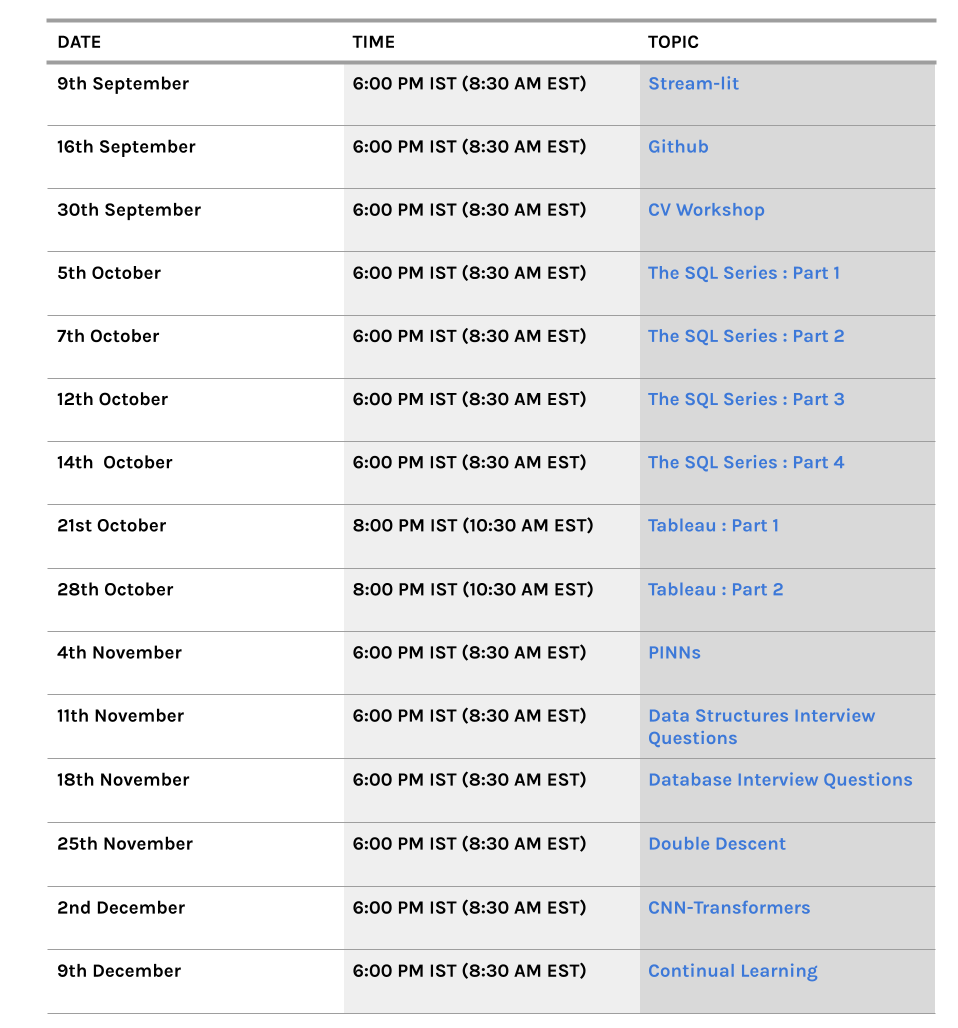
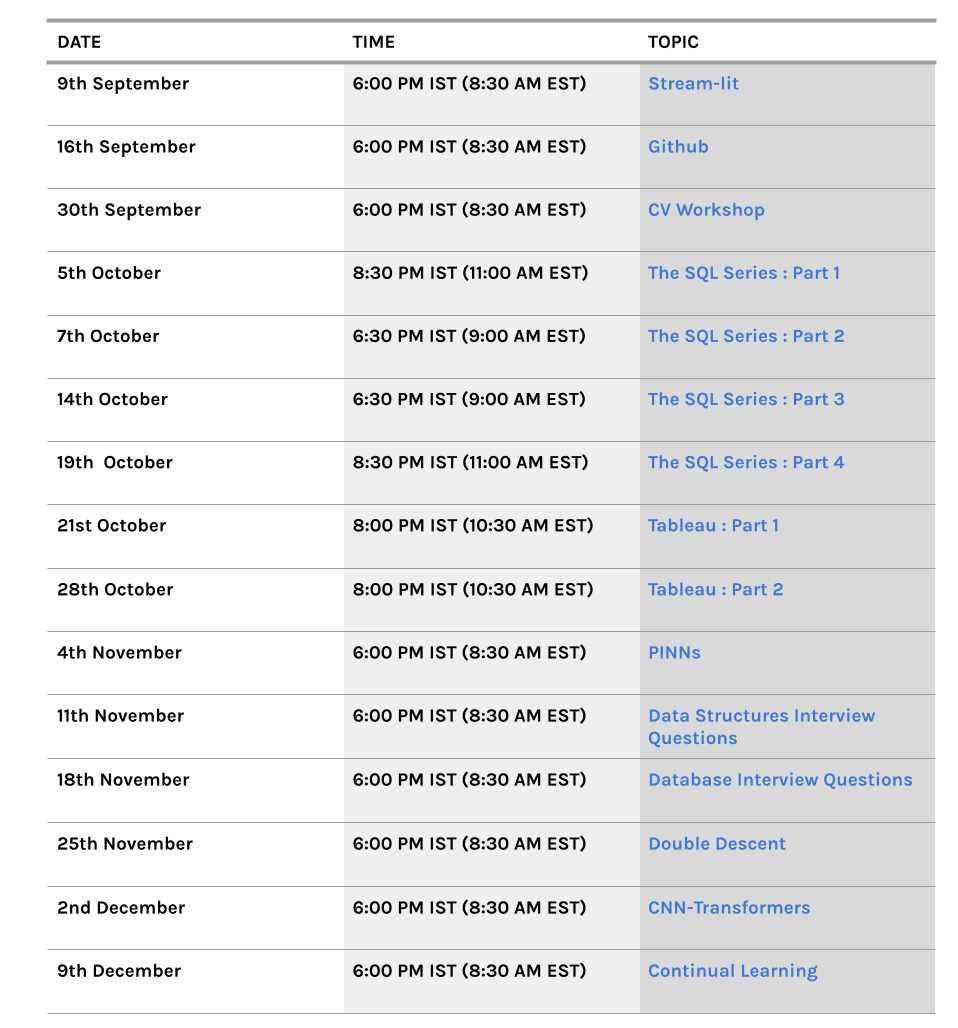
Uncourse updates linked new workshops to myuniv

diff --git a/_pages/uncourse.md b/_pages/uncourse.md
@@ -136,7 +136,7 @@ Here is the current schedule for all our workshops.
       </div>
       <div class="modal-body">
         <p>This workshop discusses Database related common Interview Coding Questions , building upon the previous session.</p>
-        <p>Registeration link below will be made active shortly!</p>
+        <p>Registration link below will be made active shortly!</p>
         <center><h6>Instructor: Dr. Rahul Dave</h6>
         <img src="/assets/images/people/RahulDave.jpeg" alt="Rahul" style="height:200px;margin-right:15px;"><br><br>
         <h6>Timings</h6>
@@ -223,8 +223,8 @@ Here is the current schedule for all our workshops.
         <center><h6>Instructor: Dr. Rahul Dave</h6>
         <img src="/assets/images/people/RahulDave.jpeg" alt="Rahul" style="height:200px;margin-right:15px"><br><br>
         <h6>Timings</h6>
-        <p>6:00 - 8:00 PM IST <br>
-        (8:30 - 10:30 AM EST)</p> <br>
+        <p>8:30 - 10:30 PM IST <br>
+        (11:00 AM - 01:00 PM EST)</p> <br>
         <button class="register-button" onclick="location.href='https://my.univ.ai/community/sql-series'">Register</button></center>
       </div>
     </div>
@@ -251,8 +251,8 @@ Here is the current schedule for all our workshops.
         <center><h6>Instructor: Dr. Rahul Dave</h6>
         <img src="/assets/images/people/RahulDave.jpeg" alt="Rahul" style="height:200px;margin-right:15px;"><br><br>
         <h6>Timings</h6>
-        <p>6:00 - 8:00 PM IST <br>
-        (8:30 - 10:30 AM EST)</p> <br>
+        <p>6:30 - 8:30 PM IST <br>
+        (9:00 - 11:00 AM EST)</p> <br>
         <button class="register-button" onclick="location.href='https://my.univ.ai/community/sql-series'">Register</button></center>
       </div>
     </div>
@@ -279,8 +279,8 @@ Here is the current schedule for all our workshops.
         <center><h6>Instructor: Dr. Rahul Dave</h6>
         <img src="/assets/images/people/RahulDave.jpeg" alt="Rahul" style="height:200px;margin-right:15px;"><br><br>
         <h6>Timings</h6>
-        <p>6:00 - 8:00 PM IST <br>
-        (8:30 - 10:30 AM EST)</p> <br>
+        <p>6:30 - 8:30 PM IST <br>
+        (9:00 - 11:00 AM EST)</p> <br>
         <button class="register-button" onclick="location.href='https://my.univ.ai/community/sql-series'">Register</button></center>
       </div>
     </div>
@@ -307,8 +307,8 @@ Here is the current schedule for all our workshops.
         <center><h6>Instructor: Dr. Rahul Dave</h6>
         <img src="/assets/images/people/RahulDave.jpeg" alt="Rahul" style="height:200px;margin-right:15px;"><br><br>
         <h6>Timings</h6>
-        <p>6:00 - 8:00 PM IST <br>
-        (8:30 - 10:30 AM EST)</p> <br>
+        <p>8:30 - 10:30 PM IST <br>
+        (11:00 AM - 01:00 PM EST)</p> <br>
         <button class="register-button" onclick="location.href='https://my.univ.ai/community/sql-series'">Register</button></center>
       </div>
     </div>
@@ -331,13 +331,12 @@ Here is the current schedule for all our workshops.
       </div>
       <div class="modal-body">
         <p>Tableau is a popular visualization and data analysis tool that helps you create interactive plots and presentations. </p> <p> Part 1 of this workshop will serve as a launching pad to get you started with your very own dashboards.</p>
-        <p>Registeration link below will be made active shortly!</p>
-        <center><!--<h6>Instructor: Kshitij Parwani</h6>
-        <img src="/assets/images/people/KshitijParwani.png" alt="Rahul" style="height:200px;margin-right:15px;">--><br><br>
+        <center><h6>Instructor: Hiba Talat</h6>
+        <img src="/assets/images/people/HibaTalat.png" alt="Hiba" style="height:200px;margin-right:15px;"><br><br>
         <h6>Timings</h6>
         <p>8:00 PM - 10:00 PM IST <br>
         (10:30 AM - 12:30 PM EST)</p> <br>
-        <button class="register-button" onclick="location.href=''">Register</button></center>
+        <button class="register-button" onclick="location.href='https://my.univ.ai/community/tableau-1-uncourse'">Register</button></center>
       </div>
     </div>
   </div>
@@ -358,14 +357,14 @@ Here is the current schedule for all our workshops.
         </button>
       </div>
       <div class="modal-body">
-        <p>Building on Tableau : Part 1, Part 2 is designed to get your interactive dashboards presentation ready!.</p>
-        <p>Registeration link below will be made active shortly!</p>
-        <center><!--<h6>Instructor: Kshitij Parwani</h6>
-        <img src="/assets/images/people/KshitijParwani.png" alt="Rahul" style="height:200px;margin-right:15px;">--><br><br>
+        <p>Building on Tableau : Part 1, Part 2 is designed to get your interactive dashboards presentation ready!</p>
+        <p>Registration link below will be made active shortly!</p>
+        <center><center><h6>Instructor: Hiba Talat</h6>
+        <img src="/assets/images/people/HibaTalat.png" alt="Hiba" style="height:200px;margin-right:15px;"><br><br>
         <h6>Timings</h6>
         <p>8:00 PM - 10:00 PM IST <br>
         (10:30 AM - 12:30 PM EST)</p> <br>
-        <button class="register-button" onclick="location.href=''">Register</button></center>
+        <button class="register-button" onclick="location.href='https://my.univ.ai/community/tableau-2-uncourse'">Register</button></center>
       </div>
     </div>
   </div>
@@ -387,7 +386,7 @@ Here is the current schedule for all our workshops.
       </div>
       <div class="modal-body">
         <p>Three Dimensional Convolutional Neural Networks can go beyond 2D images and incorporate volumetric information (like CT scans) or even temporal information (such as event detection in Videos). Features can be extracted from both spatial and temporal dimensions using 3D convolutions.</p>
-        <p>Registeration link below will be made active shortly!</p>
+        <p>Registration link below will be made active shortly!</p>
         <center><!--<h6>Instructor: Dr. Rahul Dave</h6>
         <img src="/assets/images/people/RahulDave.jpeg" alt="Rahul" style="height:200px;margin-right:15px;">--><br><br>
         <h6>Timings</h6>
@@ -442,7 +441,7 @@ Here is the current schedule for all our workshops.
       </div>
       <div class="modal-body">
         <p>To be updated soon.</p>
-        <p>Registeration link below will be made active shortly!</p>
+        <p>Registration link below will be made active shortly!</p>
         <center><h6>Instructor: Dr. Rahul Dave</h6>
         <img src="/assets/images/people/RahulDave.jpeg" alt="Rahul" style="height:200px;margin-right:15px;"><br><br>
         <h6>Timings</h6>
@@ -498,7 +497,7 @@ Here is the current schedule for all our workshops.
       </div>
       <div class="modal-body">
         <p>To be updated soon.</p>
-        <p>Registeration link below will be made active shortly!</p>
+        <p>Registration link below will be made active shortly!</p>
         <center><h6>Instructor: Dr. Rahul Dave</h6>
         <img src="/assets/images/people/RahulDave.jpeg" alt="Rahul" style="height:200px;margin-right:15px;"><br><br>
         <h6>Timings</h6>
